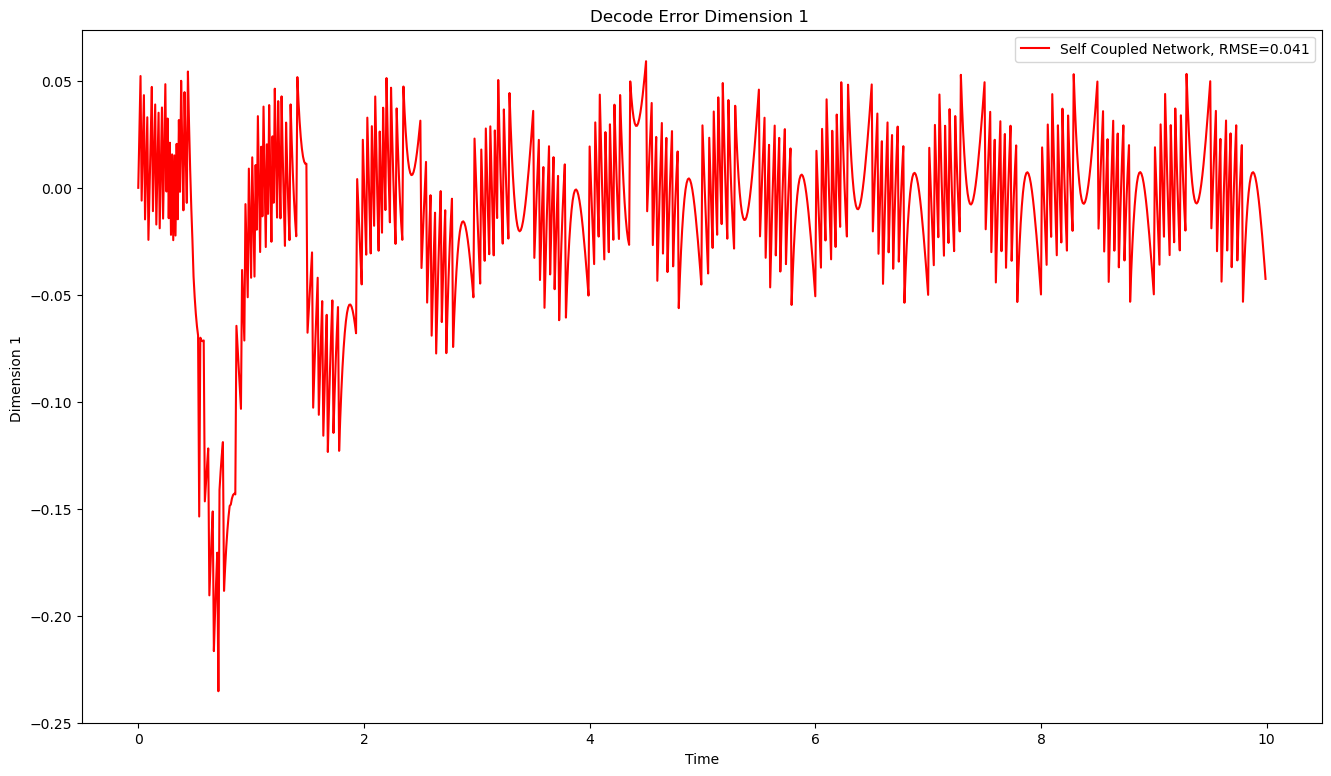
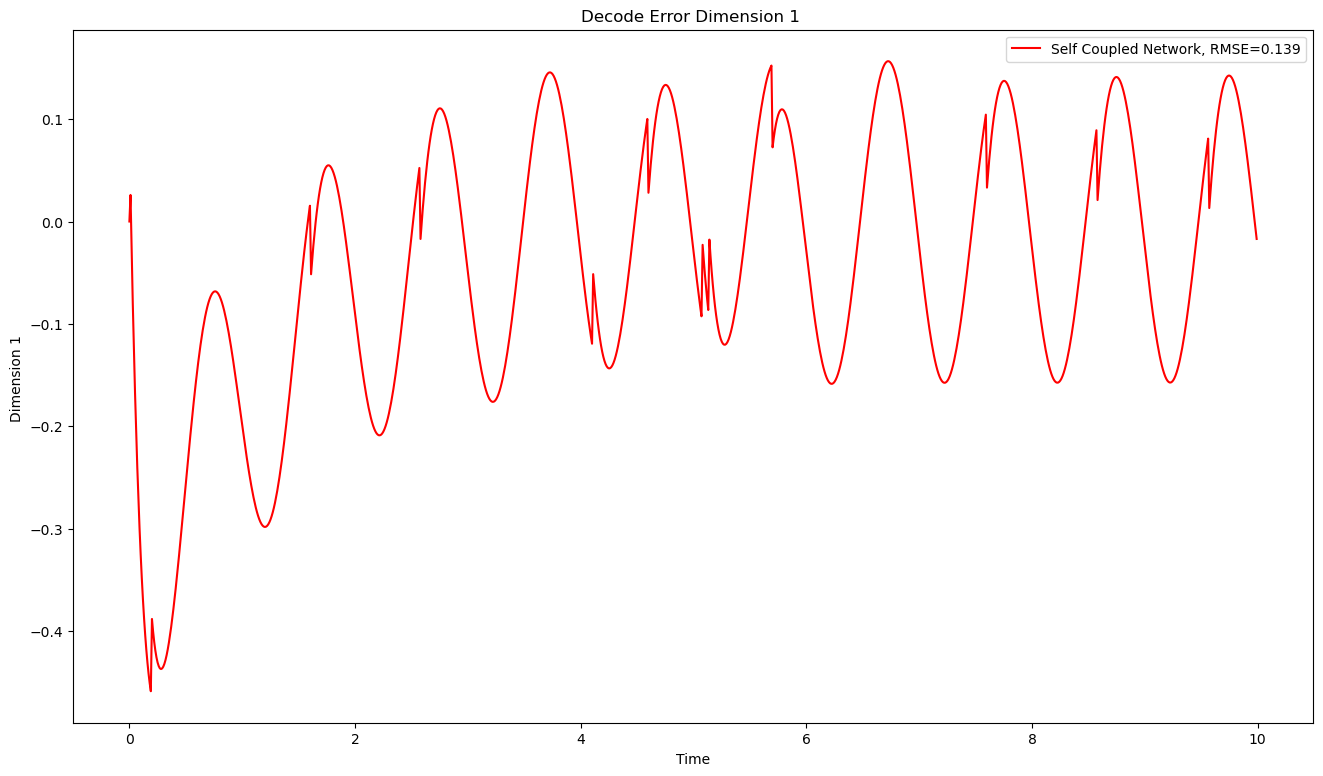
added spike dropping for self-coupled net

diff --git a/HSF/HSFNets.py b/HSF/HSFNets.py
@@ -270,9 +270,11 @@ class SelfCoupledNet(GapJunctionDeneveNet):
         - A is diagonalized 
         - Thresholds are scales by tau_s 
     '''
-    def __init__(self, T, dt, N, D, lds, lam, t0 = 0, thresh = 'full'):
+    def __init__(self, T, dt, N, D, lds, lam, t0 = 0, thresh = 'full', spike_trans_prob=1):
         super().__init__(T, dt, N, D, lds, lam, t0)
 
+        assert(spike_trans_prob < 1 and spike_trans_prob > 0), "Spike transmission probability = {0] is not between 0 and 1".format(spike_trans_prob)
+        self.spike_trans_prob=spike_trans_prob
         
         if np.linalg.matrix_rank(lds.A) < np.min(lds.A.shape):
             print("Dynamics Matrix A is  not full rank, has dims (%i, %i) but rank %i"%(lds.A.shape[0], lds.A.shape[1], np.linalg.matrix_rank(lds.A)))
@@ -335,7 +337,7 @@ class SelfCoupledNet(GapJunctionDeneveNet):
         process data and call c_solver library to quickly run sims
         '''
         @jit(nopython=True)     
-        def fast_sim(dt, vth, num_pts, t, V, r, O, U,  Mo, Mc, A_exp):
+        def fast_sim(dt, vth, num_pts, t, V, r, O, U,  Mo, Mc, A_exp, spike_trans_prob):
             '''run the sim quickly using numba just-in-time compilation'''
             N = V.shape[0]
             for count in np.arange(num_pts-1):
@@ -356,7 +358,15 @@ class SelfCoupledNet(GapJunctionDeneveNet):
                     if diffs[idx] > 0:
                     # a spike occurred. roll back to when it should have happened 
                         V[:,count+1] +=  tau_syn * Mo[:,idx]
-                        r[idx,count+1] +=  tau_syn
+                        
+                        if spike_trans_prob == 1:
+                            r[idx,count+1] +=  tau_syn
+                        else:
+                            sample = np.random.uniform(0, 1)
+                            if spike_trans_prob >= sample:
+                                r[idx,count+1] += tau_syn
+                            
+                            
                         O[idx] = np.append(O[idx], t[-1])
                     
 
@@ -379,13 +389,14 @@ class SelfCoupledNet(GapJunctionDeneveNet):
         Mr = self.Mr
         Mc = self.Mc
         tau_syn = self.tau_syn
+        spike_trans_prob  = self.spike_trans_prob
         
         top = np.hstack((Mv, Mr))
         bot = np.hstack((np.zeros((self.N, self.N)), - (1/tau_syn) *  np.eye(self.N)))
         A_exp = np.vstack((top, bot)) #matrix exponential for linear part of eq
         A_exp = expm(A_exp*dt)
         
-        fast_sim(dt, vth, num_pts, t, V, r, O, U,  Mo,  Mc,  A_exp)
+        fast_sim(dt, vth, num_pts, t, V, r, O, U,  Mo,  Mc,  A_exp, spike_trans_prob)
                  
         
 

diff --git a/HSF/network_sim_comparisons.py b/HSF/network_sim_comparisons.py
@@ -42,7 +42,7 @@ def run_sim(lam, N):
 
     #gj_net = GapJunctionDeneveNet(T=T, dt=dt, N=N, D=D, lds=lds, lam=lam, t0=0)
     #classic_net = ClassicDeneveNet(T=T, dt=dt, N=N, D=D, lds=lds, lam=lam, lam_v=lam_v, t0=0)
-    sc_net = SelfCoupledNet(T=T, dt=dt, N=N, D=D, lds=lds, lam=lam, t0=0)
+    sc_net = SelfCoupledNet(T=T, dt=dt, N=N, D=D, lds=lds, lam=lam, t0=0, spike_trans_prob=.3)
 
 
     #gj_data = gj_net.run_sim()
